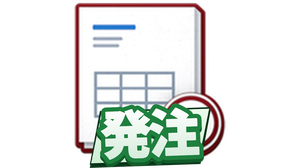
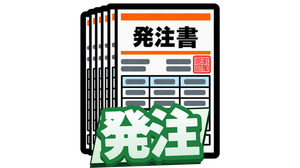
発注の絵を新しい絵に差し替え（メインアイコン・見出しの横）
Claude-Session: https://claude.ai/code/session_01SSqBungNj4wBMJYD7VEwk6

Changed region(s): [[0.24, 0.0, 0.75, 0.9524]]

diff --git a/hacchu.html b/hacchu.html
@@ -319,7 +319,7 @@ nav .ni:last-child{margin-right:auto;}
 
 <header>
   <button class="new-btn nn-back nn-backimg" onclick="nnBack()" title="ひとつ前に戻る"><img src="./icons/btn_back.png?v=2026-09-07e" alt="戻る" onerror="var b=this.parentElement;b.classList.remove('nn-backimg');b.textContent='↩';"></button>
-  <span class="hicon"><img src="./icons/icon_hacchu.png" alt="" style="height:28px;vertical-align:middle" onerror="this.parentElement.textContent=ICONS.header"></span>
+  <span class="hicon"><img src="./icons/icon_hacchu.png?v=2026-10-26t" alt="" style="height:28px;vertical-align:middle" onerror="this.parentElement.textContent=ICONS.header"></span>
   <h1><span class="nnTtl">発注</span></h1>
   <span class="hco"><small>材料の発注と発注履歴</small></span>
   <span class="count" id="hcount"></span>
@@ -378,7 +378,7 @@ function buildNav(){
   n.innerHTML=NAV.map(([k,l])=>{
     const suf=(k===NAV_ACTIVE)?'_on':'';
     return `<div class="ni ${k===NAV_ACTIVE?'on':''}" onclick="navGo('${k}','${l}')">
-      <span class="ic"><img src="./icons/nav_${k}${suf}.png?v=2026-10-26s" alt="${l}"
+      <span class="ic"><img src="./icons/nav_${k}${suf}.png?v=2026-10-26t" alt="${l}"
         onload="this.closest('.ni').classList.add('hasimg')"
         onerror="if(!this.dataset.f){this.dataset.f=1;this.src='./icons/nav_${k}.png';}
                  else{this.outerHTML=ICONS['${k}']||'▫';}"></span><span>${l}</span></div>`;
@@ -1126,7 +1126,7 @@ nav, nav#nav{justify-content:center !important; padding-left:6px !important; pad
    古いものが出続けることがある。そこで ver.txt（数バイト）だけを
    毎回見に行き、公開版と違っていたら保存分を捨てて1回だけ読み直す。
    ★公開のたびに ver.txt と、下の NN_VER を同じ文字に更新すること。 */
-const NN_VER='2026-10-26s';
+const NN_VER='2026-10-26t';
 /* ============ 表示にかかった時間の記録（原因調査用・2026-07-28） ============
    スマホの実機でどこに時間がかかっているかを数字で出す。
    ・net  ＝ページを要求してから最初の返事が来るまで（通信の待ち）

diff --git a/index.html b/index.html
@@ -422,7 +422,7 @@ nav, nav#nav{overflow:visible; padding-top:2px;}
 
 <!-- 版の表示：スマホに届いている中身がどれかを、お互いに確認するための小さな印。
      不要になったらこの1行と #nnver の指定を消してください。 -->
-<div id="nnver">v2026-10-26 s</div>
+<div id="nnver">v2026-10-26 t</div>
 <script>
 /* ============ 実機の計測結果を表示（原因調査用・2026-07-28） ============
    数字の意味（単位はミリ秒）
@@ -522,7 +522,7 @@ function buildNav(){
   n.innerHTML=NAV.map(([k,l])=>{
     const suf=(k===NAV_ACTIVE)?'_on':'';
     return `<div class="ni ${k===NAV_ACTIVE?'on':''}" onclick="navGo('${k}','${l}')">
-      <span class="ic"><img src="./icons/nav_${k}${suf}.png?v=2026-10-26s" alt="${l}"
+      <span class="ic"><img src="./icons/nav_${k}${suf}.png?v=2026-10-26t" alt="${l}"
         onload="this.closest('.ni').classList.add('hasimg')"
         onerror="if(!this.dataset.f){this.dataset.f=1;this.src='./icons/nav_${k}.png';}
                  else{this.outerHTML=ICONS['${k}']||'▫';}"></span><span>${l}</span></div>`;
@@ -775,7 +775,7 @@ nav, nav#nav{justify-content:center !important; padding-left:6px !important; pad
    古いものが出続けることがある。そこで ver.txt（数バイト）だけを
    毎回見に行き、公開版と違っていたら保存分を捨てて1回だけ読み直す。
    ★公開のたびに ver.txt と、下の NN_VER を同じ文字に更新すること。 */
-const NN_VER='2026-10-26s';
+const NN_VER='2026-10-26t';
 /* ============ 表示にかかった時間の記録（原因調査用・2026-07-28） ============
    スマホの実機でどこに時間がかかっているかを数字で出す。
    ・net  ＝ページを要求してから最初の返事が来るまで（通信の待ち）

diff --git a/kokkosho.html b/kokkosho.html
@@ -1907,7 +1907,7 @@ function buildNav(){
   n.innerHTML=NAV.map(([k,l])=>{
     const suf=(k===NAV_ACTIVE)?'_on':'';
     return `<div class="ni ${k===NAV_ACTIVE?'on':''}" onclick="navGo('${k}','${l}')">
-      <span class="ic"><img src="./icons/nav_${k}${suf}.png?v=2026-10-26s" alt="${l}"
+      <span class="ic"><img src="./icons/nav_${k}${suf}.png?v=2026-10-26t" alt="${l}"
         onload="this.closest('.ni').classList.add('hasimg')"
         onerror="if(!this.dataset.f){this.dataset.f=1;this.src='./icons/nav_${k}.png';}
                  else{this.outerHTML=NAV_ICONS['${k}']||'▫';}"></span><span>${l}</span></div>`;
@@ -2491,7 +2491,7 @@ nav, nav#nav{justify-content:center !important; padding-left:6px !important; pad
    古いものが出続けることがある。そこで ver.txt（数バイト）だけを
    毎回見に行き、公開版と違っていたら保存分を捨てて1回だけ読み直す。
    ★公開のたびに ver.txt と、下の NN_VER を同じ文字に更新すること。 */
-const NN_VER='2026-10-26s';
+const NN_VER='2026-10-26t';
 /* ============ 表示にかかった時間の記録（原因調査用・2026-07-28） ============
    スマホの実機でどこに時間がかかっているかを数字で出す。
    ・net  ＝ページを要求してから最初の返事が来るまで（通信の待ち）

diff --git a/genba_map_v36.html b/genba_map_v36.html
@@ -4859,7 +4859,7 @@ function buildNav(){
   n.innerHTML=NAV.map(([k,l])=>{
     const suf=(k===NAV_ACTIVE)?'_on':'';
     return `<div class="ni ${k===NAV_ACTIVE?'on':''}" onclick="navGo('${k}','${l}')">
-      <span class="ic"><img src="./icons/nav_${k}${suf}.png?v=2026-10-26s" alt="${l}"
+      <span class="ic"><img src="./icons/nav_${k}${suf}.png?v=2026-10-26t" alt="${l}"
         onload="this.closest('.ni').classList.add('hasimg')"
         onerror="if(!this.dataset.f){this.dataset.f=1;this.src='./icons/nav_${k}.png';}
                  else{this.outerHTML=ICONS['${k}']||'▫';}"></span><span>${l}</span></div>`;
@@ -5048,7 +5048,7 @@ nav, nav#nav{justify-content:center !important; padding-left:6px !important; pad
    古いものが出続けることがある。そこで ver.txt（数バイト）だけを
    毎回見に行き、公開版と違っていたら保存分を捨てて1回だけ読み直す。
    ★公開のたびに ver.txt と、下の NN_VER を同じ文字に更新すること。 */
-const NN_VER='2026-10-26s';
+const NN_VER='2026-10-26t';
 /* ============ 表示にかかった時間の記録（原因調査用・2026-07-28） ============
    スマホの実機でどこに時間がかかっているかを数字で出す。
    ・net  ＝ページを要求してから最初の返事が来るまで（通信の待ち）

diff --git a/kirokucho_demo.html b/kirokucho_demo.html
@@ -3270,7 +3270,7 @@ function buildNav(){
   n.innerHTML=NAV.map(([k,l])=>{
     const suf=(k===NAV_ACTIVE)?'_on':'';
     return `<div class="ni ${k===NAV_ACTIVE?'on':''}" onclick="navGo('${k}','${l}')">
-      <span class="ic"><img src="./icons/nav_${k}${suf}.png?v=2026-10-26s" alt="${l}"
+      <span class="ic"><img src="./icons/nav_${k}${suf}.png?v=2026-10-26t" alt="${l}"
         onload="this.closest('.ni').classList.add('hasimg')"
         onerror="if(!this.dataset.f){this.dataset.f=1;this.src='./icons/nav_${k}.png';}
                  else{this.outerHTML=ICONS['${k}']||'▫';}"></span><span>${l}</span></div>`;
@@ -4928,7 +4928,7 @@ nav, nav#nav{justify-content:center !important; padding-left:6px !important; pad
    古いものが出続けることがある。そこで ver.txt（数バイト）だけを
    毎回見に行き、公開版と違っていたら保存分を捨てて1回だけ読み直す。
    ★公開のたびに ver.txt と、下の NN_VER を同じ文字に更新すること。 */
-const NN_VER='2026-10-26s';
+const NN_VER='2026-10-26t';
 /* ============ 表示にかかった時間の記録（原因調査用・2026-07-28） ============
    スマホの実機でどこに時間がかかっているかを数字で出す。
    ・net  ＝ページを要求してから最初の返事が来るまで（通信の待ち）

diff --git a/shiyo_toroku.html b/shiyo_toroku.html
@@ -1388,7 +1388,7 @@ function buildNav(){
   n.innerHTML=NAV.map(([k,l])=>{
     const suf=(k===NAV_ACTIVE)?'_on':'';
     return `<div class="ni ${k===NAV_ACTIVE?'on':''}" onclick="navGo('${k}','${l}')">
-      <span class="ic"><img src="./icons/nav_${k}${suf}.png?v=2026-10-26s" alt="${l}"
+      <span class="ic"><img src="./icons/nav_${k}${suf}.png?v=2026-10-26t" alt="${l}"
         onload="this.closest('.ni').classList.add('hasimg')"
         onerror="if(!this.dataset.f){this.dataset.f=1;this.src='./icons/nav_${k}.png';}
                  else{this.outerHTML=ICONS['${k}']||'▫';}"></span><span>${l}</span></div>`;
@@ -1821,7 +1821,7 @@ nav, nav#nav{justify-content:center !important; padding-left:6px !important; pad
    古いものが出続けることがある。そこで ver.txt（数バイト）だけを
    毎回見に行き、公開版と違っていたら保存分を捨てて1回だけ読み直す。
    ★公開のたびに ver.txt と、下の NN_VER を同じ文字に更新すること。 */
-const NN_VER='2026-10-26s';
+const NN_VER='2026-10-26t';
 /* ============ 表示にかかった時間の記録（原因調査用・2026-07-28） ============
    スマホの実機でどこに時間がかかっているかを数字で出す。
    ・net  ＝ページを要求してから最初の返事が来るまで（通信の待ち）

diff --git a/zairyo_toroku.html b/zairyo_toroku.html
@@ -1208,7 +1208,7 @@ function buildNav(){
   n.innerHTML=NAV.map(([k,l])=>{
     const suf=(k===NAV_ACTIVE)?'_on':'';
     return `<div class="ni ${k===NAV_ACTIVE?'on':''}" onclick="navGo('${k}','${l}')">
-      <span class="ic"><img src="./icons/nav_${k}${suf}.png?v=2026-10-26s" alt="${l}"
+      <span class="ic"><img src="./icons/nav_${k}${suf}.png?v=2026-10-26t" alt="${l}"
         onload="this.closest('.ni').classList.add('hasimg')"
         onerror="if(!this.dataset.f){this.dataset.f=1;this.src='./icons/nav_${k}.png';}
                  else{this.outerHTML=ICONS['${k}']||'▫';}"></span><span>${l}</span></div>`;
@@ -1613,7 +1613,7 @@ nav, nav#nav{justify-content:center !important; padding-left:6px !important; pad
    古いものが出続けることがある。そこで ver.txt（数バイト）だけを
    毎回見に行き、公開版と違っていたら保存分を捨てて1回だけ読み直す。
    ★公開のたびに ver.txt と、下の NN_VER を同じ文字に更新すること。 */
-const NN_VER='2026-10-26s';
+const NN_VER='2026-10-26t';
 /* ============ 表示にかかった時間の記録（原因調査用・2026-07-28） ============
    スマホの実機でどこに時間がかかっているかを数字で出す。
    ・net  ＝ページを要求してから最初の返事が来るまで（通信の待ち）

diff --git a/zumen_sekisan.html b/zumen_sekisan.html
@@ -5883,7 +5883,7 @@ function buildNav(){
   n.innerHTML=NAV.map(([k,l])=>{
     const suf=(k===NAV_ACTIVE)?'_on':'';
     return `<div class="ni ${k===NAV_ACTIVE?'on':''}" onclick="navGo('${k}','${l}')">
-      <span class="ic"><img src="./icons/nav_${k}${suf}.png?v=2026-10-26s" alt="${l}"
+      <span class="ic"><img src="./icons/nav_${k}${suf}.png?v=2026-10-26t" alt="${l}"
         onload="this.closest('.ni').classList.add('hasimg')"
         onerror="if(!this.dataset.f){this.dataset.f=1;this.src='./icons/nav_${k}.png';}
                  else{this.outerHTML=ICONS['${k}']||'▫';}"></span><span>${l}</span></div>`;
@@ -6342,7 +6342,7 @@ nav, nav#nav{justify-content:center !important; padding-left:6px !important; pad
    古いものが出続けることがある。そこで ver.txt（数バイト）だけを
    毎回見に行き、公開版と違っていたら保存分を捨てて1回だけ読み直す。
    ★公開のたびに ver.txt と、下の NN_VER を同じ文字に更新すること。 */
-const NN_VER='2026-10-26s';
+const NN_VER='2026-10-26t';
 /* ============ 表示にかかった時間の記録（原因調査用・2026-07-28） ============
    スマホの実機でどこに時間がかかっているかを数字で出す。
    ・net  ＝ページを要求してから最初の返事が来るまで（通信の待ち）

diff --git a/camera.html b/camera.html
@@ -334,7 +334,7 @@ function buildNav(){
   n.innerHTML=NAV.map(([k,l])=>{
     const suf=(k===NAV_ACTIVE)?'_on':'';
     return `<div class="ni ${k===NAV_ACTIVE?'on':''}" onclick="navGo('${k}','${l}')">
-      <span class="ic"><img src="./icons/nav_${k}${suf}.png?v=2026-10-26s" alt="${l}"
+      <span class="ic"><img src="./icons/nav_${k}${suf}.png?v=2026-10-26t" alt="${l}"
         onload="this.closest('.ni').classList.add('hasimg')"
         onerror="if(!this.dataset.f){this.dataset.f=1;this.src='./icons/nav_${k}.png';}
                  else{this.outerHTML=ICONS['${k}']||'▫';}"></span><span>${l}</span></div>`;
@@ -1296,7 +1296,7 @@ nav, nav#nav{justify-content:center !important; padding-left:6px !important; pad
    古いものが出続けることがある。そこで ver.txt（数バイト）だけを
    毎回見に行き、公開版と違っていたら保存分を捨てて1回だけ読み直す。
    ★公開のたびに ver.txt と、下の NN_VER を同じ文字に更新すること。 */
-const NN_VER='2026-10-26s';
+const NN_VER='2026-10-26t';
 /* ============ 表示にかかった時間の記録（原因調査用・2026-07-28） ============
    スマホの実機でどこに時間がかかっているかを数字で出す。
    ・net  ＝ページを要求してから最初の返事が来るまで（通信の待ち）

diff --git a/library.html b/library.html
@@ -417,7 +417,7 @@ function buildNav(){
   n.innerHTML=NAV.map(([k,l])=>{
     const suf=(k===NAV_ACTIVE)?'_on':'';
     return `<div class="ni ${k===NAV_ACTIVE?'on':''}" onclick="navGo('${k}','${l}')">
-      <span class="ic"><img src="./icons/nav_${k}${suf}.png?v=2026-10-26s" alt="${l}"
+      <span class="ic"><img src="./icons/nav_${k}${suf}.png?v=2026-10-26t" alt="${l}"
         onload="this.closest('.ni').classList.add('hasimg')"
         onerror="if(!this.dataset.f){this.dataset.f=1;this.src='./icons/nav_${k}.png';}
                  else{this.outerHTML=ICONS['${k}']||'▫';}"></span><span>${l}</span></div>`;
@@ -1193,7 +1193,7 @@ nav, nav#nav{justify-content:center !important; padding-left:6px !important; pad
    古いものが出続けることがある。そこで ver.txt（数バイト）だけを
    毎回見に行き、公開版と違っていたら保存分を捨てて1回だけ読み直す。
    ★公開のたびに ver.txt と、下の NN_VER を同じ文字に更新すること。 */
-const NN_VER='2026-10-26s';
+const NN_VER='2026-10-26t';
 /* ============ 表示にかかった時間の記録（原因調査用・2026-07-28） ============
    スマホの実機でどこに時間がかかっているかを数字で出す。
    ・net  ＝ページを要求してから最初の返事が来るまで（通信の待ち）

diff --git a/yougo.html b/yougo.html
@@ -317,7 +317,7 @@ function buildNav(){
   n.innerHTML=NAV.map(([k,l])=>{
     const suf=(k===NAV_ACTIVE)?'_on':'';
     return `<div class="ni ${k===NAV_ACTIVE?'on':''}" onclick="navGo('${k}','${l}')">
-      <span class="ic"><img src="./icons/nav_${k}${suf}.png?v=2026-10-26s" alt="${l}"
+      <span class="ic"><img src="./icons/nav_${k}${suf}.png?v=2026-10-26t" alt="${l}"
         onload="this.closest('.ni').classList.add('hasimg')"
         onerror="if(!this.dataset.f){this.dataset.f=1;this.src='./icons/nav_${k}.png';}
                  else{this.outerHTML=ICONS['${k}']||'▫';}"></span><span>${l}</span></div>`;
@@ -1429,7 +1429,7 @@ nav, nav#nav{justify-content:center !important; padding-left:6px !important; pad
    古いものが出続けることがある。そこで ver.txt（数バイト）だけを
    毎回見に行き、公開版と違っていたら保存分を捨てて1回だけ読み直す。
    ★公開のたびに ver.txt と、下の NN_VER を同じ文字に更新すること。 */
-const NN_VER='2026-10-26s';
+const NN_VER='2026-10-26t';
 /* ============ 表示にかかった時間の記録（原因調査用・2026-07-28） ============
    スマホの実機でどこに時間がかかっているかを数字で出す。
    ・net  ＝ページを要求してから最初の返事が来るまで（通信の待ち）

diff --git a/sw.js b/sw.js
@@ -11,7 +11,7 @@
      ので、こちらの修正が確実に端末へ届く。
      ★ページを直したら、必ずこの番号を1つ上げること。
    ============================================================ */
-const CACHE = 'nn-cache-v891';
+const CACHE = 'nn-cache-v892';
 
 const ASSETS = [
   './repair_takeoff.js',
